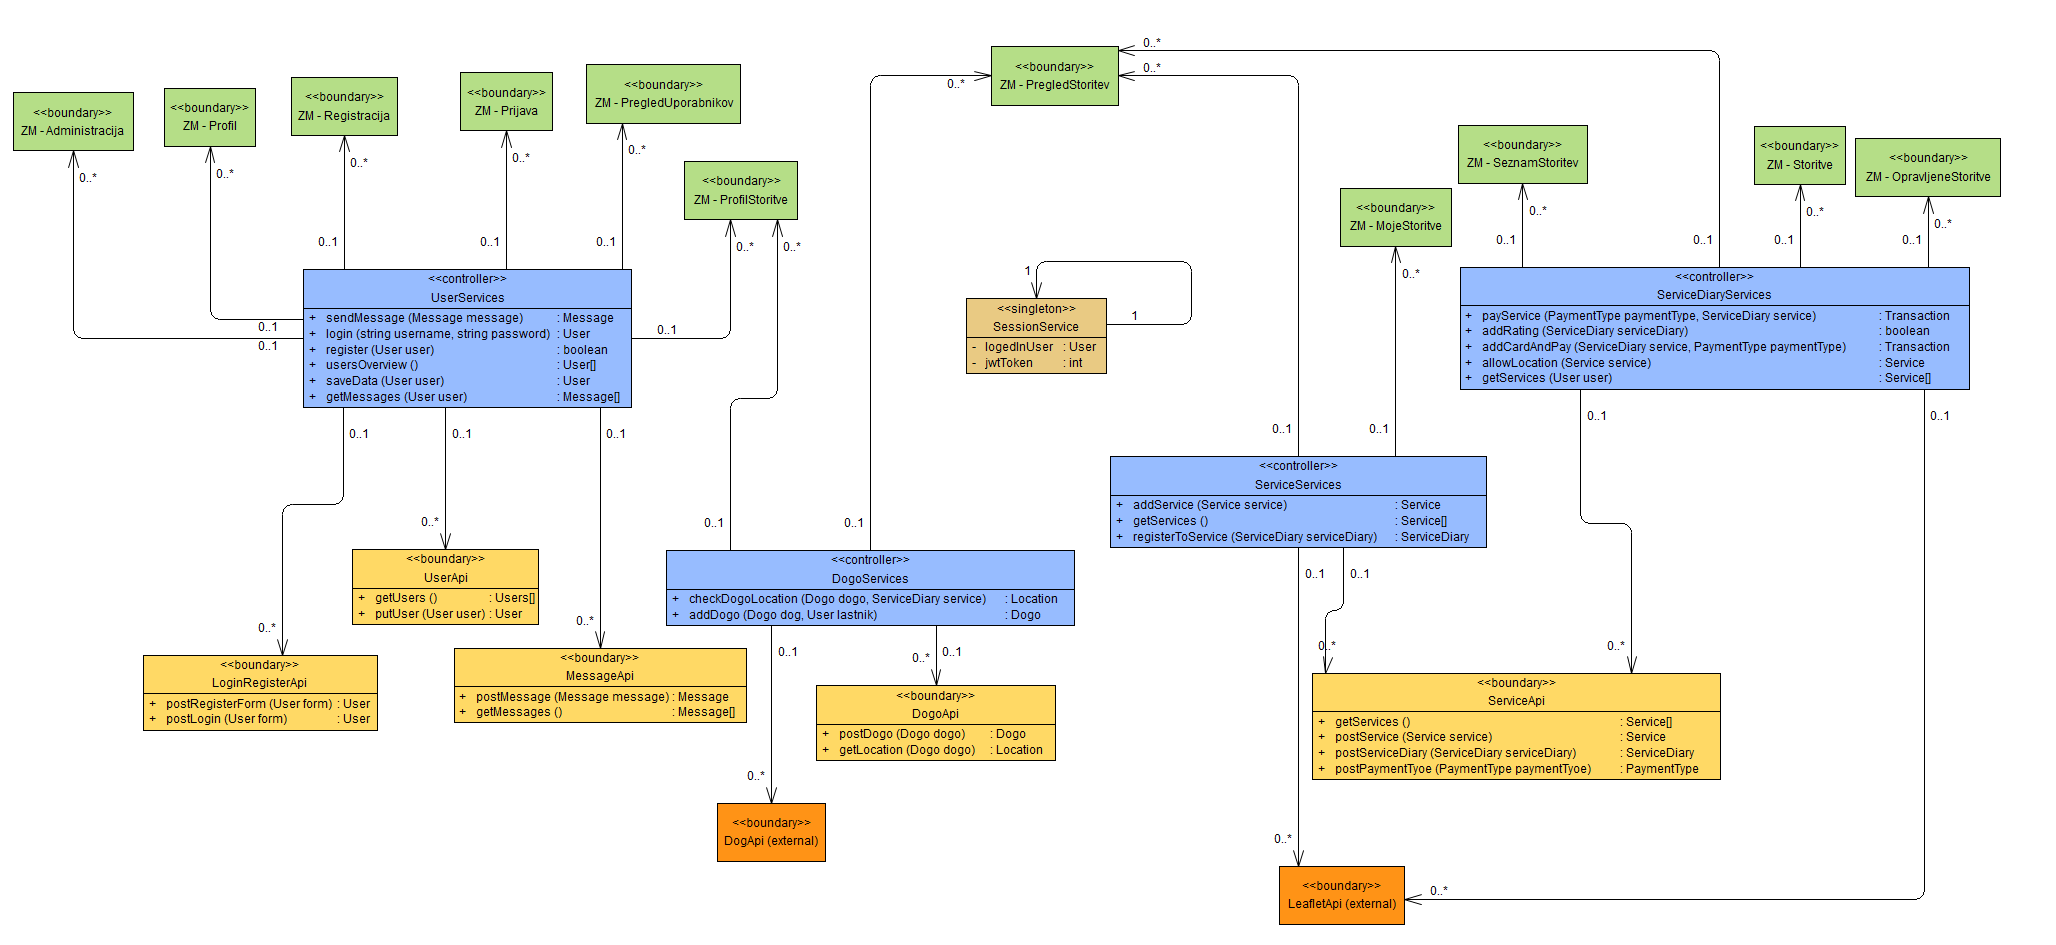
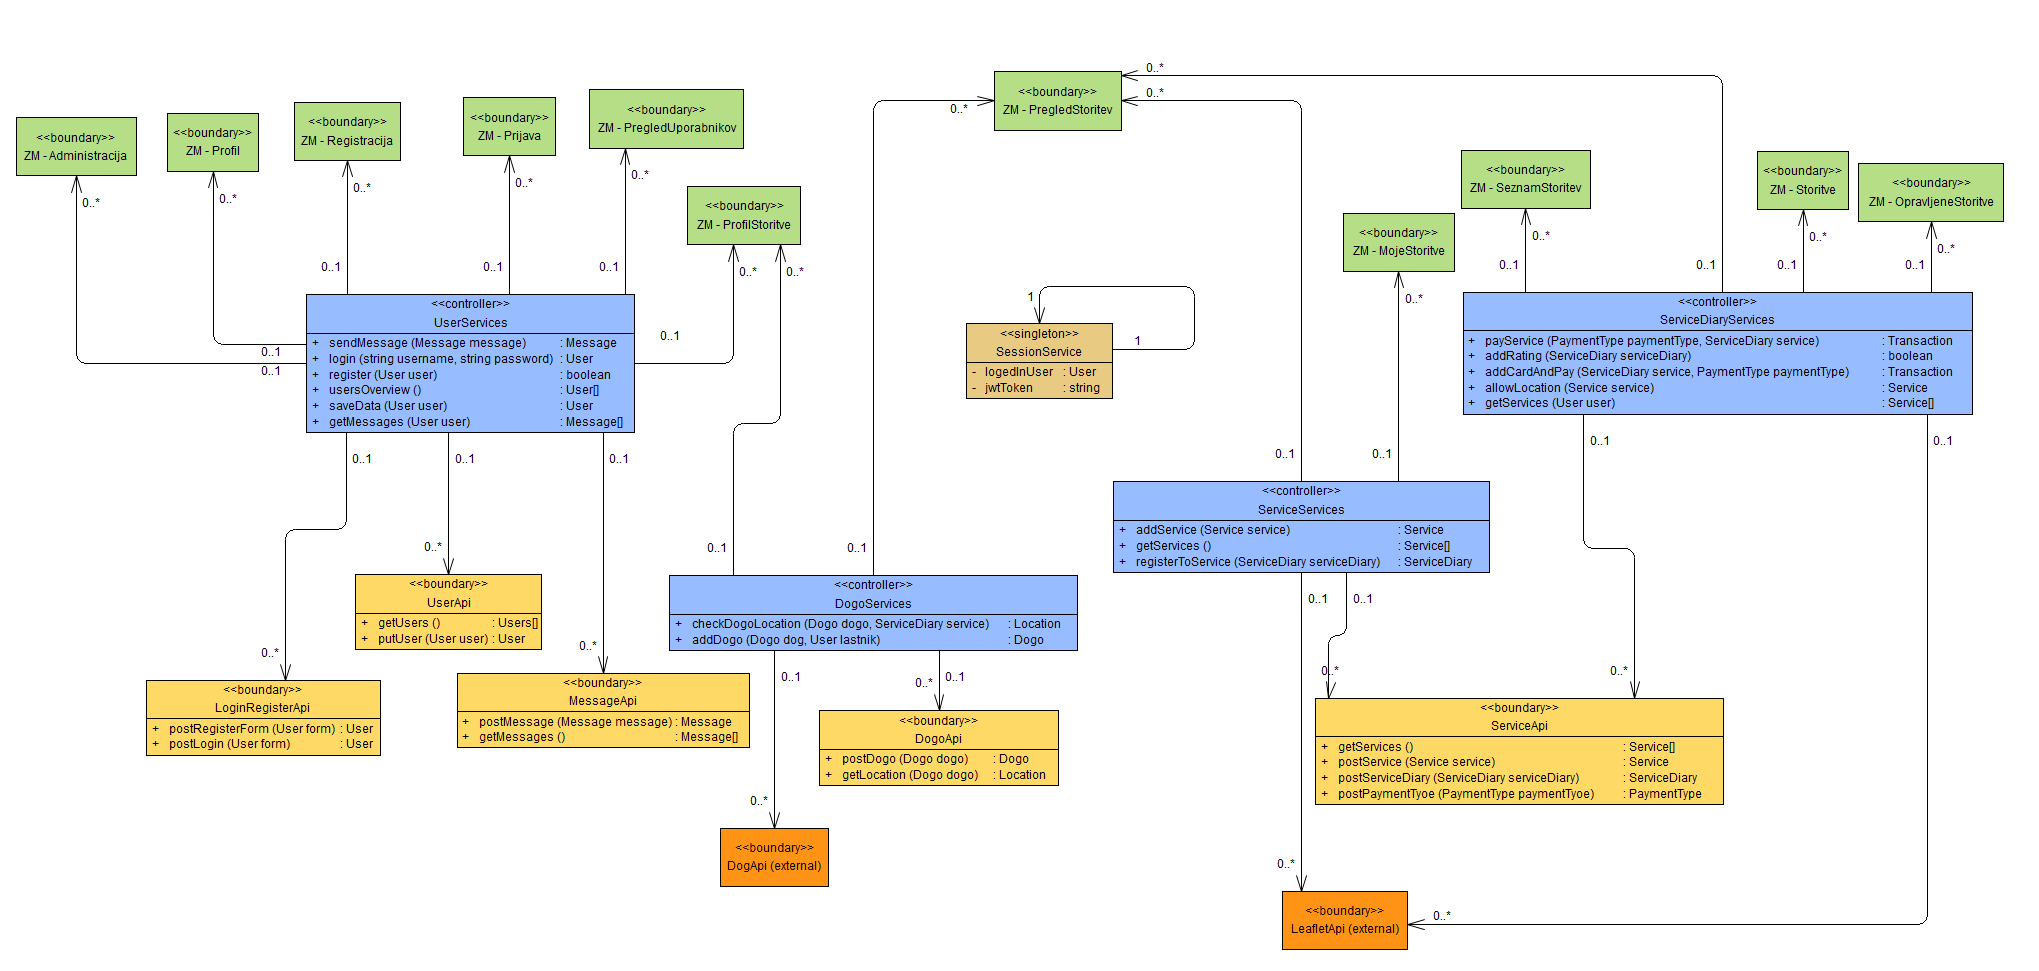
dodni opiski

diff --git a/docs/nacrt/README.md b/docs/nacrt/README.md
@@ -48,6 +48,12 @@ V nadaljevanju čelni in zaledni podsistem razdelimo na pakete s poslovnimi razr
 
 ## 2. Načrt strukture
 
+V nadaljevanju so predstavljeni razredi sistema. Pri zasnovi razrednega diagrama in posameznih razredov smo se posluževali arhitekturnih stilov:
+- pri hrambi podatkov o prijavljenem uporabniku in seji na čelnem delu aplikacije se poslužujemo uporabe arhitekturnega stila *repozitorij* (*singleton*) do katerega imajo dostop vsi preostali kontrolni razredi znotraj čelnega dela aplikacije,
+- na nivoju REST API-ja je definirana *veriga filtrov* (*chain of responsibilities*), ki filtrirajo HTTP zahteve glede na karakteristike in lastnosti posamezne zahteve
+- na nivoju implementacije se na čelnem delu poslužujemo uporabe *observer-jev* za izvajanje HTTP zahtevkov, ki nam omogočajo asihrono obdelavo zakasnelih HTTP odgovorov
+- na nivoju imeplementacije se na čelnem in zalednem delu aplikacije poslužujemo dekoratorjev (*wrapper*) za enkapsulacijo objektov v HTTP zahteve in odgovore
+
 ### 2.1 Razredni diagram
 
 > V nadaljevanju predstavljamo dva globalna razredna diagrama, ki se delita na **razredni diagram zaledne aplikacije** in **razredni diagram čelne aplikacije**. Razredna diagrama sta ločena zaradi preglednosti, komunikacija med njima pa poteka prek _boundary_ razredov, ki so paroma enaki na obeh razrednih diagramih (npr. _boundary_ razred z imenom _UserApi_ na čelnem delu aplikacije predstavlja komunikacijsko točko z _boundary_ razredom _UserApi_ na zalednem delu, pri čemer sta si oba razreda _UserApi_ identična v imenu razerda in podpisu metod).
@@ -110,8 +116,8 @@ Razred _Message_ je entitetni razred, ki predstavlja eno sporočilo v medsebojni
 | id | int | unikaten primarni identifikator objekta | |
 | text | string | vsebina sporočila | |
 | created | DateTime | čas kreiranja objekta | |
-| sender | User | pošilljatelj sporočila | |
-| recipient | User | prejemnik sporočila, pri čemer velja `this.sender !== this.recipient`| |
+| sender | User | pošilljatelj sporočila | `this.sender !== this.recipient` |
+| recipient | User | prejemnik sporočila| `this.sender !== this.recipient` |
 
 #### **Service**
 
@@ -214,6 +220,9 @@ Nesamoumevne metode definirane v kontrolnem razredu na čelnem delu aplikacije:
 | sendMessage | message: Message| Message | preveri popolnost podatkov, zahteva pošiljanje sporočila (api klic) in vrača v ZM poslano sporočilo ali HTTP napako |
 | login | username: string, password: string | User | preveri popolnost podatkov, zahteva API klic in vrača podatke o uporabniku ali HTTP napako v ZM |
 | register | user: User | User | preveri popolnost podatkov, zahteva API klic in vrača status registracije v ZM |
+| usersOverview | | User[] | zahteva HTTP klic, ki vrača seznam vseh uporabnikov |
+| saveData | user: User | User | zahteva pošiljanje podatkov o uporabniku |
+| getMessages | user: User | Mesaage[] | zahteva HTTP klic, ki vrača vsa sporočila uporabnika `user` |
 
 Nesamoumevne metode definirane v istoimenskem kontrolnem razredu na zalednem delu aplikacije:
 
@@ -222,6 +231,10 @@ Nesamoumevne metode definirane v istoimenskem kontrolnem razredu na zalednem del
 | sendMessage | message: Message| Message | preveri popolnost podatkov in validira podatke v PB ter vrača rezultat transakcije |
 | login | username: string, password: string | User | preveri popolnost podatkov in validira podatke v PB ter vrača rezultat validacije |
 | register | user: User | User | preveri in validira podatke v PB ter vrača rezultat transakcije (zapis v PB) |
+| usersOverview | | User[] | vrne seznam vseh registriranih uporabnikov |
+| saveData | user: User | User | shrani podatke uporabnika |
+| getMessages | user: User | Mesaage[] | vrne vsa sporočila uporabnika `user` |
+| createJWT | user: User | string | kreira in vrne JWT žeton za uporabnika `user` |
 
 
 #### **DogoServices**
@@ -255,12 +268,16 @@ Nesamoumevne metode definirane v kontrolnem razredu na čelnem delu aplikacije:
 | Ime metode | Parametri | Tip rezultata | Pomen |
 | ---------- | --------- | ------------- | ----- |
 | addService | service: Service, izvajalec: User | Service | validira podatke, zahteva API klic za shranjevanje storitve v bazo in vrača rezultat ali HTTP napako |
+| getServices | | Service[] | zahteva API klic, ki vrača seznam vse kreiranih storitev |
+| registerToService | serviceDiary: ServiceDiary | ServiceDiary | zahteva API klic naročila nove storitve |
 
 Nesamoumevne metode definirane v istoimenskem kontrolnem razredu na zalednem delu aplikacije:
 
 | Ime metode | Parametri | Tip rezultata | Pomen |
 | ---------- | --------- | ------------- | ----- |
 | addService | service: Service, izvajalec: User | Service | validira podatke in jih zapiše v PB |
+| getServices | | Service[] | vrača seznam vse kreiranih storitev |
+| registerToService | serviceDiary: ServiceDiary | ServiceDiary | vsebuje poslovno logiko za shranjevanje novega naročila storitve |
 
 
 #### **ServiceDiaryServices**
@@ -274,14 +291,19 @@ Nesamoumevne metode definirane v kontrolnem razredu na čelnem delu aplikacije:
 | Ime metode | Parametri | Tip rezultata | Pomen |
 | ---------- | --------- | ------------- | ----- |
 | payService | paymentType: PaymentType, service: ServiceDiary | Transaction | zahteva API klic, ki zapiše in izvede denarno transakcijo za opravljeno storitev |
-| rateService | serviceDiary: ServiceDiary | ServiceDiary | zahteva API klic, ki v PB shrani oceno storitve |
+| addRating | serviceDiary: ServiceDiary | boolean | zahteva API klic, ki v PB shrani oceno storitve |
+| addCardAndPay | service: ServiceDiary, paymentType: PaymentType | Transaction | zahteva API klica za dodajanje novega plačilnega sredstva in za opravljanje denarne trnsakcije |
+| allowLocation | service: Service | Service | zahteva API klic za odobritev spremljanja lokacije |
+| getServices | | Service[] | zahteva API klic, ki vrača seznam vseh dodanih storitve |
 
 Nesamoumevne metode definirane v istoimenskem kontrolnem razredu na zalednem delu aplikacije:
 
 | Ime metode | Parametri | Tip rezultata | Pomen |
 | ---------- | --------- | ------------- | ----- |
 | payService | paymentType: PaymentType, service: ServiceDiary | Transaction | validira podatke in izvede denarno transakcijo za opravljeno stroritev med lastnikom psa in izvajalcem storitve |
-| rateService | serviceDiary: ServiceDiary | ServiceDiary | validira podatke in zapiše oceno storitve v PB |
+| addRating | serviceDiary: ServiceDiary | ServiceDiary | validira podatke in zapiše oceno storitve v PB |
+| allowLocation | service: Service | Service | shrani uporabnikovo dovoljenje za spremljanje lokacije |
+| getServices | | Service[] | zvrača seznam vseh storitev shranjenih v podatkovni bazi |
 
 #### **LoginRegisterApi**
 
@@ -291,10 +313,10 @@ Razred *LoginRegisterApi* je mejni api razred, ki se uporablja za komunikacijo m
 
 Nesamoumevne metode definirane v kontrolnem razredu na čelnem delu aplikacije:
 
-| Ime metode | Parametri | Tip rezultata |
-| ---------- | --------- | ------------- |
-| postRegisterForm | form: User | User |
-| postLogin | form: User | User |
+| Ime metode | Tip HTTP zahteve | Parametri | Tip rezultata |
+| ---------- | ---------------- | --------- | ------------- |
+| postRegisterForm | POST | form: User | User |
+| postLogin | POST| form: User | User |
 
 
 #### **UserApi**
@@ -305,8 +327,23 @@ Razred *UserApi* je mejni api razred, ki se uporablja za komunikacijo med zaledn
 
 Nesamoumevne metode definirane v kontrolnem razredu na čelnem delu aplikacije:
 
-| Ime metode | Parametri | Tip rezultata |
-| ---------- | --------- | ------------- |
+| Ime metode | Tip HTTP zahteve | Parametri | Tip rezultata |
+| ---------- | ---------------- | --------- | ------------- |
+| getUsers | POST | | User |
+| putUser |PUT | user: User | User |
+
+#### **MessageApi**
+
+Razred *MessageApi* je mejni api razred, ki se uporablja za komunikacijo med zalednim in čelnim delom za potrebe poslovne logike definirane v kontrolerju *UserServices*.
+
+#### Nesamoumevne metode
+
+Nesamoumevne metode definirane v kontrolnem razredu na čelnem delu aplikacije:
+
+| Ime metode | Tip HTTP zahteve | Parametri | Tip rezultata |
+| ---------- | ---------------- | --------- | ------------- |
+| postMessage | POST | message: Message | Message |
+| getMessages | GET | | Message[] |
 
 
 #### **DogoApi**
@@ -317,21 +354,18 @@ Razred *DogoApi* je mejni api razred, ki se uporablja za komunikacijo med zaledn
 
 Nesamoumevne metode definirane v kontrolnem razredu na čelnem delu aplikacije:
 
-| Ime metode | Parametri | Tip rezultata |
-| ---------- | --------- | ------------- |
-| postDogo | dogo: Dogo | Dogo |
-| getLocation | dogo: Dogo | Location[] |
+| Ime metode | Tip HTTP zahteve | Parametri | Tip rezultata |
+| ---------- | ---------------- | --------- | ------------- |
+| postDogo | POST | dogo: Dogo | Dogo |
+| getLocation | GET | dogo: Dogo | Location[] |
 
 #### **DogApi**
 
 Razred *DogApi* je mejni api razred, ki se uporablja za komunikacijo med zalednim delom aplikacije in zunanjim sistemom DogAPI za potrebe poslovne logike v kontrolerju *DogoServices*.
 
-#### Nesamoumevne metode
+#### **LeafletApi**
 
-Nesamoumevne metode definirane v kontrolnem razredu na čelnem delu aplikacije:
-
-| Ime metode | Parametri | Tip rezultata |
-| ---------- | --------- | ------------- |
+Razred *LeafletApi* je mejni api razred, ki se uporablja za komunikacijo med zalednim delom aplikacije in zunanjim sistemom Leaflet za potrebe poslovne logike v kontrolerju *ServiceServices* in *ServiceDiaryServices*.
 
 #### **ServiceApi**
 
@@ -341,11 +375,18 @@ Razred *ServiceApi* je mejni api razred, ki se uporablja za komunikacijo med zal
 
 Nesamoumevne metode definirane v kontrolnem razredu na čelnem delu aplikacije:
 
-| Ime metode | Parametri | Tip rezultata |
-| ---------- | --------- | ------------- |
-| getServices | -/- | Service[] |
-| postService | service: Service | Service |
-| postServiceDiary | serviceDiary: ServiceDiary | ServiceDiary |
+| Ime metode | Tip HTTP zahteve | Parametri | Tip rezultata |
+| ---------- | ---------------- | --------- | ------------- |
+| getServices | GET | | Service[] |
+| postService | POST | service: Service | Service |
+| postServiceDiary | POST | serviceDiary: ServiceDiary | ServiceDiary |
+| postPayementType | POST | paymentType: PaymentType | PaymentType |
+
+#### **AuthenticationFilter** in **AuthorizationFilter**
+
+Razreda *AuthenticationFilter* in *AuthorizationFilter* sta del verige varnostnih filtrov, ki vsako HTTP zahtevo na REST API strežnik filtrirajo glede na samo zahtevo in njene lastnosti. Avtorizacijski filter filtrira zahteve glede na to ali ima uporabnik, ki izvaja zahtevo pravico le-to izvajati. Avtentikacijski filter pa filtrira zahteve glede na identifikacijo uporabnika, ki jo zahteva.
+
+*Zaradi preglednosti načrtov obnašanja so filtri izpuščeni.*
 
 
 #### Mejni razredi - zaslonske maske/view
